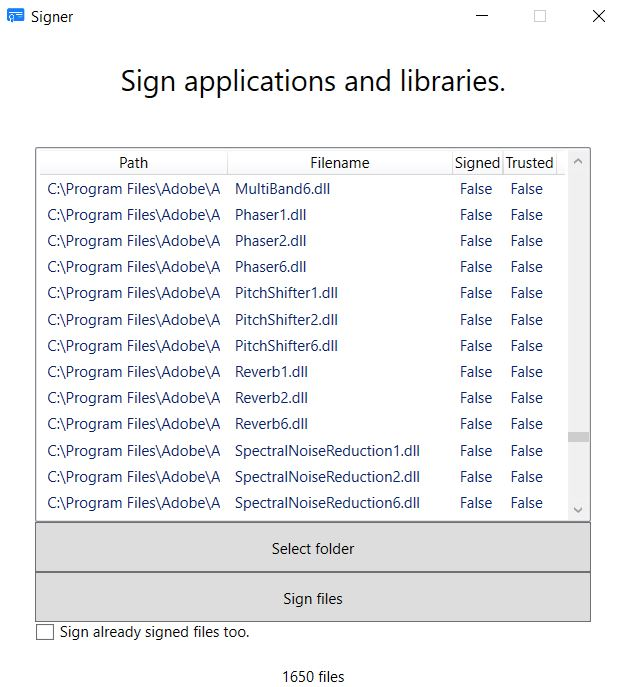
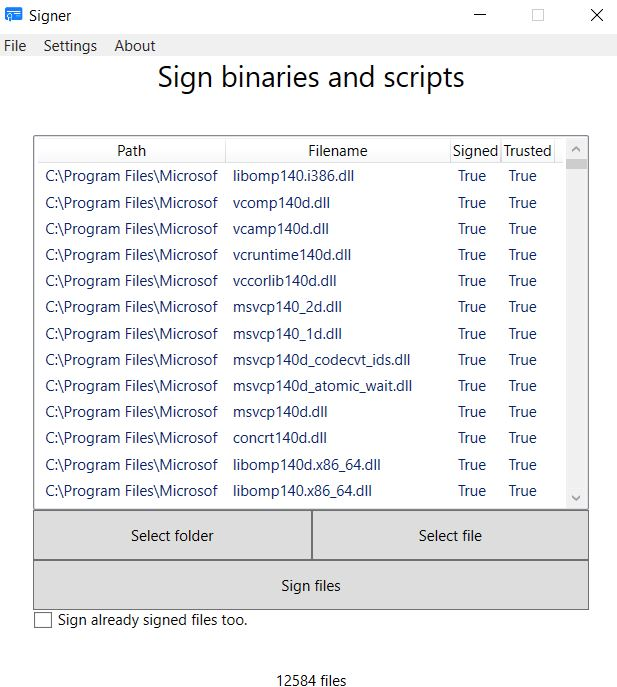
added possibilty to change hash algorithm

diff --git a/src/Signer/MainWindow.xaml b/src/Signer/MainWindow.xaml
@@ -3,6 +3,7 @@
         xmlns:d="http://schemas.microsoft.com/expression/blend/2008"
         xmlns:x="http://schemas.microsoft.com/winfx/2006/xaml"
         xmlns:mc="http://schemas.openxmlformats.org/markup-compatibility/2006"
+        xmlns:l="clr-namespace:Signer"
         mc:Ignorable="d"
         WindowStartupLocation="CenterScreen"
         ResizeMode="CanMinimize"
@@ -19,10 +20,19 @@
                 <MenuItem Header="_Exit" Click="MenuItemExit_Click" />
             </MenuItem>
             <MenuItem Header="_Settings">
+                <MenuItem Name="menuItemHash" Header="_Hash algorithm">
+                    <MenuItem.Resources>
+                        <l:ComparisonConverter x:Key="ComparisonConverter" />
+                    </MenuItem.Resources>
+                    <RadioButton Content="SHA1" IsChecked="{Binding HashAlgorithm, Converter={StaticResource ComparisonConverter}, ConverterParameter={x:Static l:Hash.SHA1}}" />
+                    <RadioButton Content="SHA256" IsChecked="{Binding HashAlgorithm, Converter={StaticResource ComparisonConverter}, ConverterParameter={x:Static l:Hash.SHA256}}" />
+                    <RadioButton Content="SHA384" IsChecked="{Binding HashAlgorithm, Converter={StaticResource ComparisonConverter}, ConverterParameter={x:Static l:Hash.SHA384}}" />
+                    <RadioButton Content="SHA512" IsChecked="{Binding HashAlgorithm, Converter={StaticResource ComparisonConverter}, ConverterParameter={x:Static l:Hash.SHA512}}" />
+                </MenuItem>
                 <MenuItem Header="_Timestampserver" Click="MenuItemTimestamp_Click" />
                 <MenuItem Header="_Certstore">
-                    <RadioButton Content="User" GroupName="test" IsChecked="True" Click="RadioButtonUser_Click" />
-                    <RadioButton Content="Computer" GroupName="test" Click="RadioButtonComputer_Click" />
+                    <RadioButton Content="User" GroupName="store" IsChecked="True" Click="RadioButtonUser_Click" />
+                    <RadioButton Content="Computer" GroupName="store" Click="RadioButtonComputer_Click" />
                 </MenuItem>
                 <Separator />
                 <MenuItem Header="_Search pattern" Click="MenuItemPattern_Click" />

diff --git a/src/Signer/SignTool.cs b/src/Signer/SignTool.cs
@@ -172,7 +172,8 @@ namespace Signer
         /// <param name="certPassword"></param>
         /// <param name="timestampUrl"></param>
         /// <exception cref="CryptographicException"></exception>
-        public static void SignWithCert(string appPath, string certPath, string certPassword, string timestampUrl = null)
+        public static void SignWithCert(string appPath, string certPath, string certPassword,
+            string timestampUrl = null, Hash hash = Hash.SHA1)
         {
             IntPtr pSignerCert = IntPtr.Zero;
             IntPtr pSubjectInfo = IntPtr.Zero;
@@ -186,7 +187,7 @@ namespace Signer
 
                 pSignerCert = CreateSignerCert(cert);
                 pSubjectInfo = CreateSignerSubjectInfo(appPath);
-                pSignatureInfo = CreateSignerSignatureInfo();
+                pSignatureInfo = CreateSignerSignatureInfo(hash);
                 pProviderInfo = GetProviderInfo(cert);
 
                 SIGNER_CONTEXT signerContext;
@@ -251,7 +252,8 @@ namespace Signer
         /// <param name="thumbprint"></param>
         /// <param name="timestampUrl"></param>
         /// <exception cref="CryptographicException"></exception>
-        public static void SignWithThumbprint(string appPath, string thumbprint, string timestampUrl = null)
+        public static void SignWithThumbprint(string appPath, string thumbprint, string timestampUrl = null,
+            Hash hash = Hash.SHA1)
         {
             IntPtr pSignerCert = IntPtr.Zero;
             IntPtr pSubjectInfo = IntPtr.Zero;
@@ -262,7 +264,7 @@ namespace Signer
             {
                 pSignerCert = CreateSignerCert(thumbprint);
                 pSubjectInfo = CreateSignerSubjectInfo(appPath);
-                pSignatureInfo = CreateSignerSignatureInfo();
+                pSignatureInfo = CreateSignerSignatureInfo(hash);
 
                 SignCode(pSubjectInfo, pSignerCert, pSignatureInfo, pProviderInfo);
 
@@ -453,12 +455,12 @@ namespace Signer
             return pSignerCert;
         }
 
-        private static IntPtr CreateSignerSignatureInfo()
+        private static IntPtr CreateSignerSignatureInfo(Hash hash)
         {
             SIGNER_SIGNATURE_INFO signatureInfo = new SIGNER_SIGNATURE_INFO
             {
                 cbSize = (uint)Marshal.SizeOf(typeof(SIGNER_SIGNATURE_INFO)),
-                algidHash = 0x00008004, // CALG_SHA1
+                algidHash = (uint)hash, // Hash
                 dwAttrChoice = 0x0, // SIGNER_NO_ATTR
                 pAttrAuthCode = IntPtr.Zero,
                 psAuthenticated = IntPtr.Zero,
@@ -505,7 +507,8 @@ namespace Signer
         }
 
         // Use SignerSign
-        private static void SignCode(IntPtr pSubjectInfo, IntPtr pSignerCert, IntPtr pSignatureInfo, IntPtr pProviderInfo)
+        private static void SignCode(IntPtr pSubjectInfo, IntPtr pSignerCert, IntPtr pSignatureInfo,
+            IntPtr pProviderInfo)
         {
             int hResult = SignerSign(
                 pSubjectInfo,
@@ -525,7 +528,8 @@ namespace Signer
         }
 
         // Use SignerSignEx
-        private static void SignCode(uint dwFlags, IntPtr pSubjectInfo, IntPtr pSignerCert, IntPtr pSignatureInfo, IntPtr pProviderInfo, out SIGNER_CONTEXT signerContext)
+        private static void SignCode(uint dwFlags, IntPtr pSubjectInfo, IntPtr pSignerCert,
+            IntPtr pSignatureInfo, IntPtr pProviderInfo, out SIGNER_CONTEXT signerContext)
         {
             int hResult = SignerSignEx(
                 dwFlags,

diff --git a/src/Signer/Helpers.cs b/src/Signer/Helpers.cs
@@ -96,7 +96,7 @@ namespace Signer
                 return false;
         }
 
-        internal static async Task<int> SignWithCert(string certPath, string passphrase, List<FileObject> files, bool includeSigned, ProgressBar progressBar, ParallelOptions parallelOptions)
+        internal static async Task<int> SignWithCert(string certPath, string passphrase, List<FileObject> files, bool includeSigned, Hash hash, ProgressBar progressBar, ParallelOptions parallelOptions)
         {
             int count = 0;
             var collection = new X509Certificate2Collection();
@@ -114,7 +114,7 @@ namespace Signer
                     }
                     try
                     {
-                        SignTool.SignWithCert(file.FullPath, certPath, passphrase, TimestampUrl);
+                        SignTool.SignWithCert(file.FullPath, certPath, passphrase, TimestampUrl, hash);
                         count++;
                     }
                     catch (Exception) { throw; }
@@ -125,7 +125,7 @@ namespace Signer
             return count;
         }
 
-        internal static async Task<int> SignWithStore(string thumbprint, List<FileObject> files, bool includeSigned, ProgressBar progressBar, ParallelOptions parallelOptions)
+        internal static async Task<int> SignWithStore(string thumbprint, List<FileObject> files, bool includeSigned, Hash hash, ProgressBar progressBar, ParallelOptions parallelOptions)
         {
             int count = 0;
             var task = Task.Run(() =>
@@ -139,7 +139,7 @@ namespace Signer
                     }
                     try
                     {
-                        SignTool.SignWithThumbprint(file.FullPath, thumbprint, TimestampUrl);
+                        SignTool.SignWithThumbprint(file.FullPath, thumbprint, TimestampUrl, hash);
                         count++;
                     }
                     catch (Exception) { throw; }

diff --git a/src/Signer/MainWindow.xaml.cs b/src/Signer/MainWindow.xaml.cs
@@ -15,6 +15,7 @@ namespace Signer
     public partial class MainWindow : Window
     {
         internal FileModel FileModel { get; set; }
+        public Hash HashAlgorithm { get; set; } = Hash.SHA1;
         private CancellationTokenSource tokenSource = new CancellationTokenSource();
         private StoreLocation _storeLocation = StoreLocation.CurrentUser;
 
@@ -23,6 +24,7 @@ namespace Signer
             InitializeComponent();
             FileModel = new FileModel();
             listViewItems.DataContext = FileModel;
+            menuItemHash.DataContext = this;
         }
 
         private async void buttonSelectFolder_Click(object sender, RoutedEventArgs e)
@@ -109,9 +111,11 @@ namespace Signer
             try
             {
                 if (useThumbprint)
-                    count = await Helpers.SignWithStore(certificate, FileModel.Files, checkBoxIncludeSigned.IsChecked.Value, progressBarSigned, po);
+                    count = await Helpers.SignWithStore(certificate, FileModel.Files, checkBoxIncludeSigned.IsChecked.Value,
+                        HashAlgorithm, progressBarSigned, po);
                 else
-                    count = await Helpers.SignWithCert(certificate, passphrase, FileModel.Files, checkBoxIncludeSigned.IsChecked.Value, progressBarSigned, po);
+                    count = await Helpers.SignWithCert(certificate, passphrase, FileModel.Files, checkBoxIncludeSigned.IsChecked.Value,
+                        HashAlgorithm, progressBarSigned, po);
                 System.Windows.MessageBox.Show($"Signed {count} files.");
             }
             catch (Exception ex)

diff --git a/src/Signer/ComparisonConverter.cs b/src/Signer/ComparisonConverter.cs
@@ -1,0 +1,18 @@
+using System;
+using System.Windows.Data;
+
+namespace Signer
+{
+    internal class ComparisonConverter : IValueConverter
+    {
+        public object Convert(object value, Type targetType, object parameter, System.Globalization.CultureInfo culture)
+        {
+            return value?.Equals(parameter);
+        }
+
+        public object ConvertBack(object value, Type targetType, object parameter, System.Globalization.CultureInfo culture)
+        {
+            return value?.Equals(true) == true ? parameter : Binding.DoNothing;
+        }
+    }
+}

diff --git a/src/Signer/Hash.cs b/src/Signer/Hash.cs
@@ -1,0 +1,10 @@
+namespace Signer
+{
+    public enum Hash : uint
+    {
+        SHA1 = 0x00008004,
+        SHA256 = 0x0000800c,
+        SHA384 = 0x0000800d,
+        SHA512 = 0x0000800e
+    }
+}
